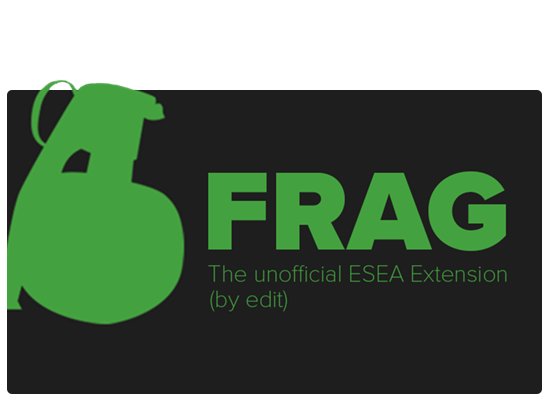
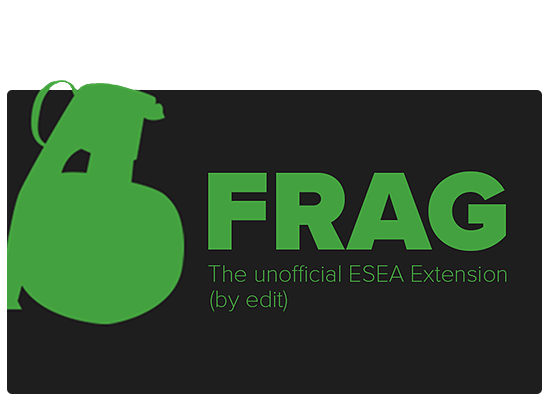
sharpened frag, rearranged to fit chronology

diff --git a/index.html b/index.html
@@ -46,6 +46,16 @@
   </li>
   <li class="projectitem">
 	<div class="projectiteminner">
+		<img src="frag_thumbnail.png">
+			<div class="projectdesc">
+				<h2>Frag | Improved ESEA</h2>
+				<h3>Google Chrome & Firefox Extension</h3>
+				<h3>Jquery/Javascript/CSS</h3>
+			</div>
+	</div>
+  </li>
+  <li class="projectitem">
+	<div class="projectiteminner">
 		<img src="betterpractice_thumbnail.png">
 			<div class="projectdesc">
 				<h2>Better Practice</h2>
@@ -61,16 +71,6 @@
 				<h2>eSports Mascots</h2>
 				<h3>Logo/Mascot</h3>
 				<h3>Illustrator/Photoshop</h3>
-			</div>
-	</div>
-  </li>
-   <li class="projectitem">
-	<div class="projectiteminner">
-		<img src="frag_thumbnail.png">
-			<div class="projectdesc">
-				<h2>Frag | Improved ESEA</h2>
-				<h3>Chrome Web Store Extension</h3>
-				<h3>Jquery/Javascript/CSS</h3>
 			</div>
 	</div>
   </li>
